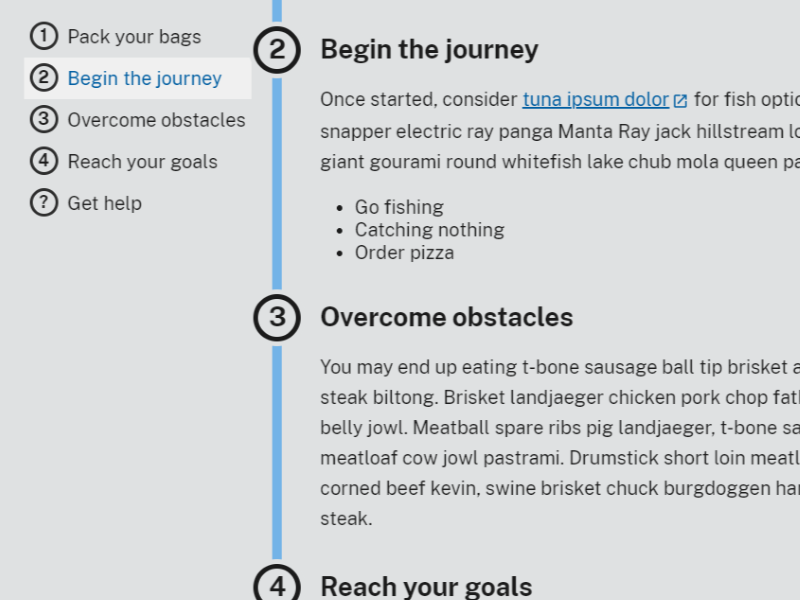
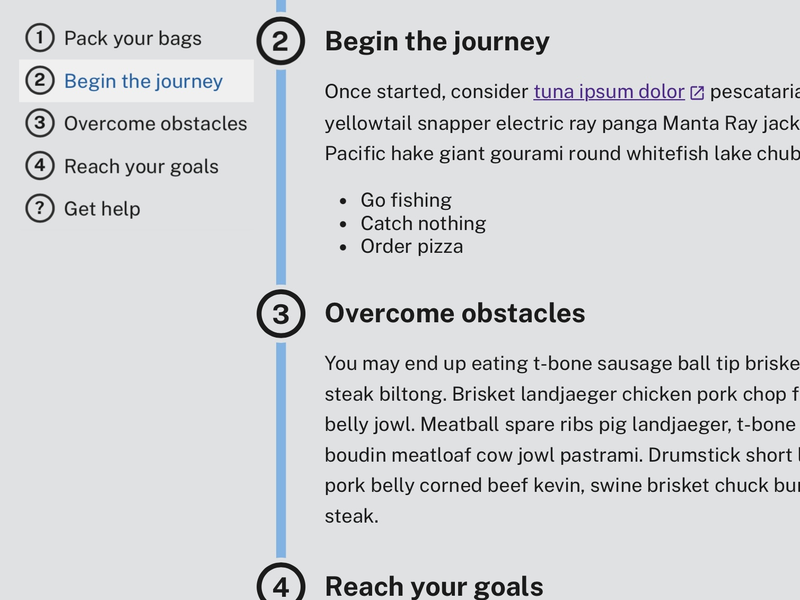
bubble, cosmetic updates (#78)

Changed region(s): [[0.0312, 0.0, 1.0, 1.0], [0.4062, 0.6, 1.0, 0.9]]

diff --git a/src/app/services/utility.model.ts b/src/app/services/utility.model.ts
@@ -223,7 +223,6 @@ export const WORD_LIST: string[] = [
   "burn",
   "burst",
   "bus",
-  "bush",
   "business",
   "busy",
   "but",
@@ -1210,7 +1209,6 @@ export const WORD_LIST: string[] = [
   "pick",
   "picture",
   "pictured",
-  "pie",
   "piece",
   "pig",
   "pile",

diff --git a/src/app/pages/bubbles/bubbles.component.scss b/src/app/pages/bubbles/bubbles.component.scss
@@ -94,8 +94,8 @@
 
       border-radius: 50%;
       border-style: solid;
-      border-width: 3px;
-      border-color: color("base-dark");
+      border-width: 2px;
+      border-color: color("base");
 
       &:hover{
         border-width: 3px;
